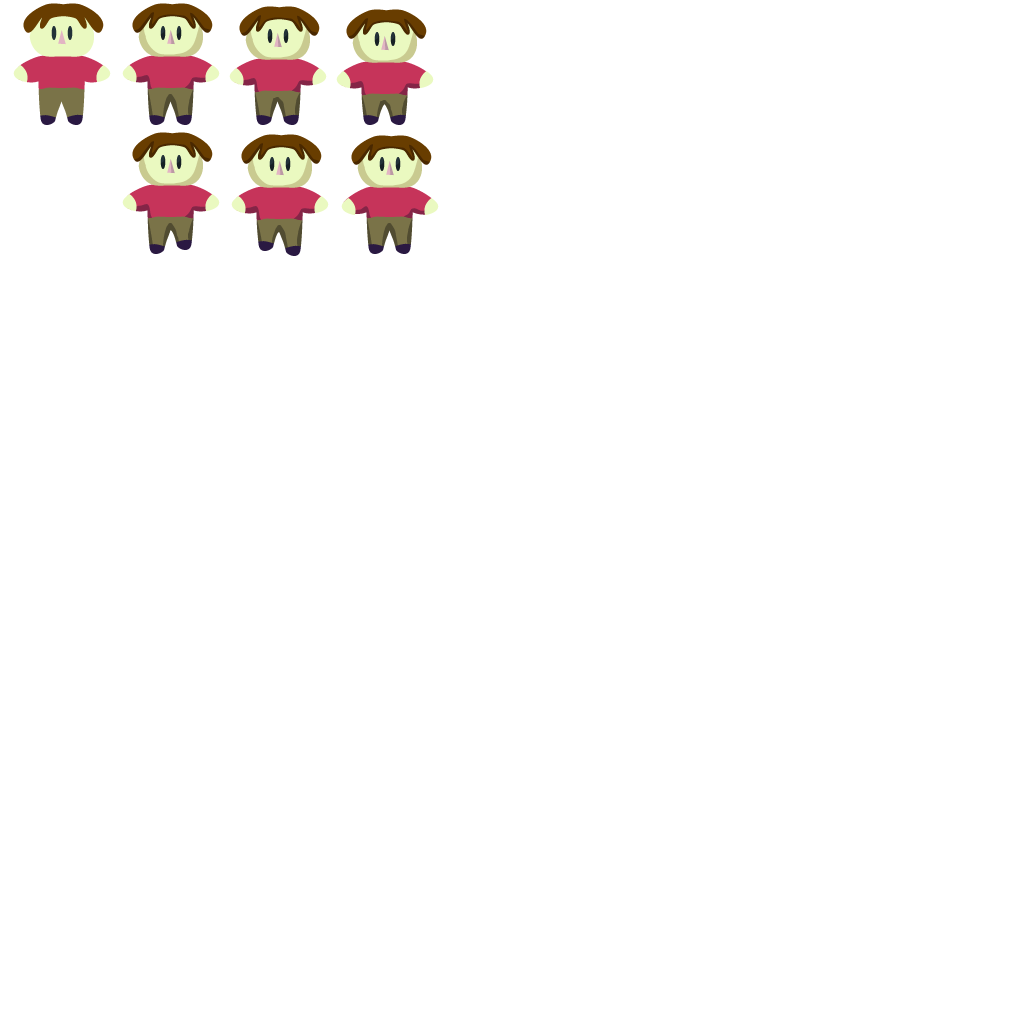
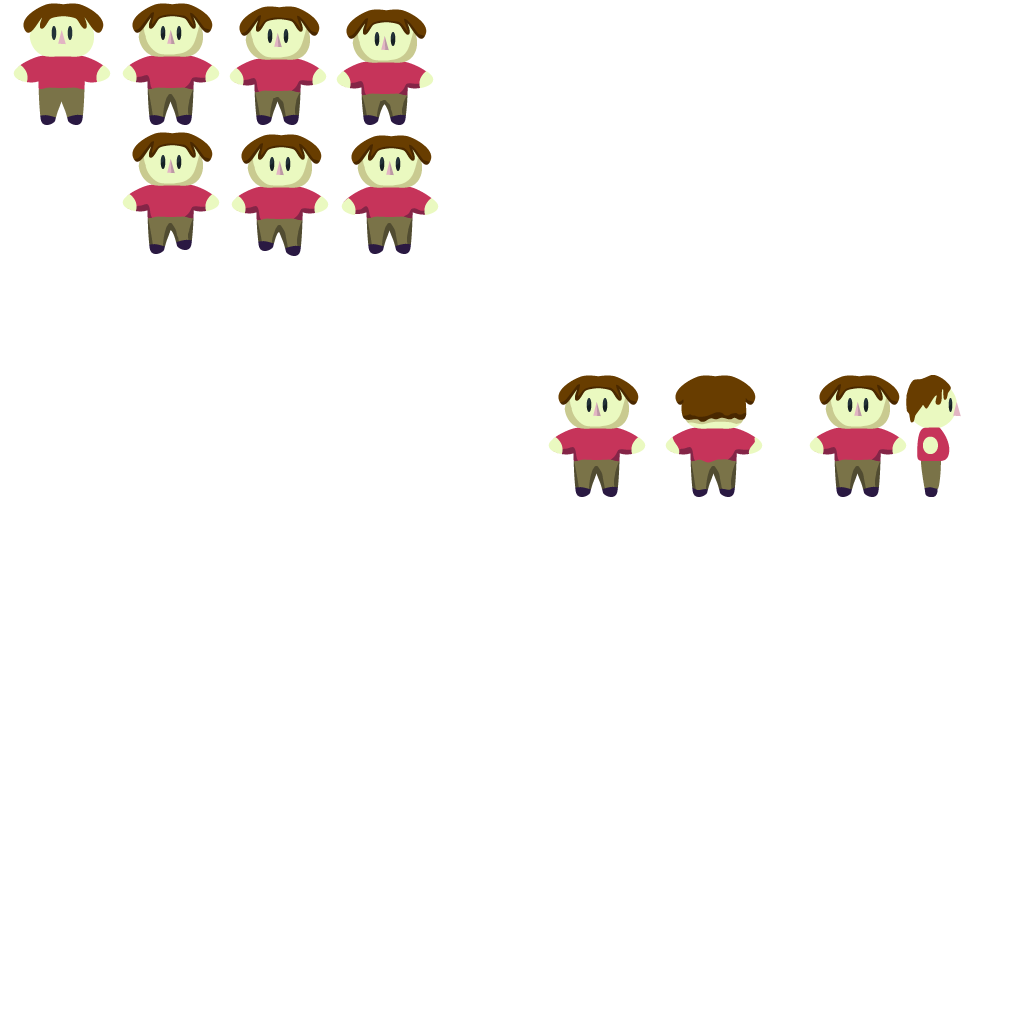
Inventory Back to Mostly Working
Items do not shift down when removed.

Changed region(s): [[0.7812, 0.3438, 0.9375, 0.5], [0.6562, 0.3438, 0.75, 0.5], [0.5312, 0.3438, 0.625, 0.5]]

diff --git a/src/sprites/Item.js b/src/sprites/Item.js
@@ -3,39 +3,40 @@ import Phaser from 'phaser'
 
 export class Item extends Phaser.Group {
 
-  constructor ({ game, x, y, indeces, name, description}) {
-    super(game);
+  constructor ({ game, x, y, indeces, name, description, invIndex }) {
+    super(game, null, 'Item Object', true)
 
-    this.mainX = x;
-    this.mainY = y;
+    this.mainX = this.x = x
+    this.mainY = this.y = y
 
-    this.sprites = [];
-    this.indeces = indeces;
-    for(let i=0; i<indeces.length; i++){
-      let sprite = new Phaser.Sprite(game, this.mainX, this.mainY, 'sewer-sprites', indeces[i]);
-      sprite.anchor.set(0.5, 0.5);
+    this.sprites = []
+    this.indeces = indeces
+    for(let i=0; i<indeces.length; i++) {
+      let sprite = new Phaser.Sprite(game, x, y, 'sewer-sprites', indeces[i] - 1)
+      sprite.anchor.set(0.5, 0.5)
       sprite.scale.setTo(0.45, 0.45)
-      sprite.x = x
-      sprite.y = y
-      this.game.physics.arcade.enable(sprite);
-      this.sprites.push(sprite);
-      this.add(sprite);
+      this.game.physics.arcade.enable(sprite)
+      this.sprites.push(sprite)
+      this.add(sprite)
     }
 
     // Make close button
-    this.closeBtn = this.game.add.button(20, 40, 'close-btn-sheet',
+    this.closeBtn = this.game.add.button(x + 20, y - 40, 'close-btn-sheet',
           onBtnClose, this, 2, 0, 1, 0, this)
     this.closeBtn.scale.set(0.333)
     this.add(this.closeBtn)
 
     // Make index number
-    this.number = this.game.add.text(40, 15, indeces[0],
-      { font: 'Courier', fontSize: 24 }, this)
-    this.add(this.number)
+    if(invIndex != null) {
+      this.invIndex = invIndex
+      this.number = this.game.add.text(x - 40, y - 15, invIndex,
+        { font: 'Courier', fontSize: 24 }, this)
+      this.add(this.number)
+    }
 
     this.game = game
     this.fixedToCamera = true
-    this.inMicrowave = false;
+    this.inMicrowave = false
 
     this.name = name
     this.description = description
@@ -45,10 +46,10 @@ export class Item extends Phaser.Group {
   }
 
   shiftUp() {
-    console.info('shifting up ' + this.index)
-    if(this.index > 0) {
-      this.index--
-      this.number.setText(this.index)
+    console.info('shifting up ' + this.invIndex)
+    if(this.invIndex > 0) {
+      this.invIndex--
+      this.number.setText(this.invIndex)
       this.y -= 75
     }
   }
@@ -68,16 +69,16 @@ export class Item extends Phaser.Group {
     return new Item({
       game: this.game, x: x, y: y,
       indeces: this.indeces, name: this.name,
-      description: this.description
+      description: this.description, invIndex: this.invIndex
     })
   }
 }
 
 function onBtnClose(itmButton) {
   let reducedInventory = itmButton.game.ui.inventory.filter((item, index) => {
-    if(index == itmButton.parent.index) {
+    if(index == itmButton.parent.invIndex) {
       return false
-    } else if(index > itmButton.parent.index) {
+    } else if(index > itmButton.parent.invIndex) {
       item.shiftUp()
       return true
     } else {

diff --git a/src/states/Game.js b/src/states/Game.js
@@ -9,7 +9,7 @@ import { centerGameObjects } from '../utils'
 const PLAYER_SPEED = 100
 
 const INVENTORY_MAX = 8
-const INVENTORY_SLOTS = []
+let INVENTORY_SLOTS = []
 
 const STATES = {
   main: 1,
@@ -38,7 +38,6 @@ export default class extends Phaser.State {
     this.game.world.setBounds(0, 0, this.tilemap.widthInPixels, this.tilemap.heightInPixels)
 
     this.tilemap.addTilesetImage('sewer-tiles')
-
 
     this.itemIndexList = this.makeItemList();
 
@@ -131,14 +130,14 @@ export default class extends Phaser.State {
       return;
     }
 
+    let invIndex = this.game.ui.inventory.length
     this.game.ui.inventory.push(new Item({
-      game: this.game, indeces: [item.index],
+      game: this.game, indeces: [item.index], invIndex: invIndex,
       name: item.properties.name, description: item.properties.description,
-      x: INVENTORY_SLOTS[this.game.ui.inventory.length].x,
-      y: INVENTORY_SLOTS[this.game.ui.inventory.length].y,
+      x: INVENTORY_SLOTS[invIndex].x, y: INVENTORY_SLOTS[invIndex].y
     }))
 
-    let newItem = this.game.ui.inventory[this.game.ui.inventory.length-1]
+    let newItem = this.game.ui.inventory[invIndex]
     this.game.ui.drawer.add(newItem)
     this.tilemap.removeTile(item.x, item.y, 'interact')
   }
@@ -149,7 +148,6 @@ export default class extends Phaser.State {
     Object.keys(tileProps).forEach((key) => {
       if(tileProps[key].isItem) {
         itemList.push(parseInt(key) + 1)
-        console.info('item: ' + key)
       }
     });
     return itemList
@@ -222,7 +220,7 @@ export default class extends Phaser.State {
   render () {
     this.game.ui.inventory.forEach((item) => {
       this.game.debug.rectangle(new Phaser.Rectangle(
-        item.position.x, item.position.y, 64, 64), '#ffffff', false)
+        item.x, item.y, 64, 64), '#ffffff', false)
     })
     if (__DEV__) {
     }
